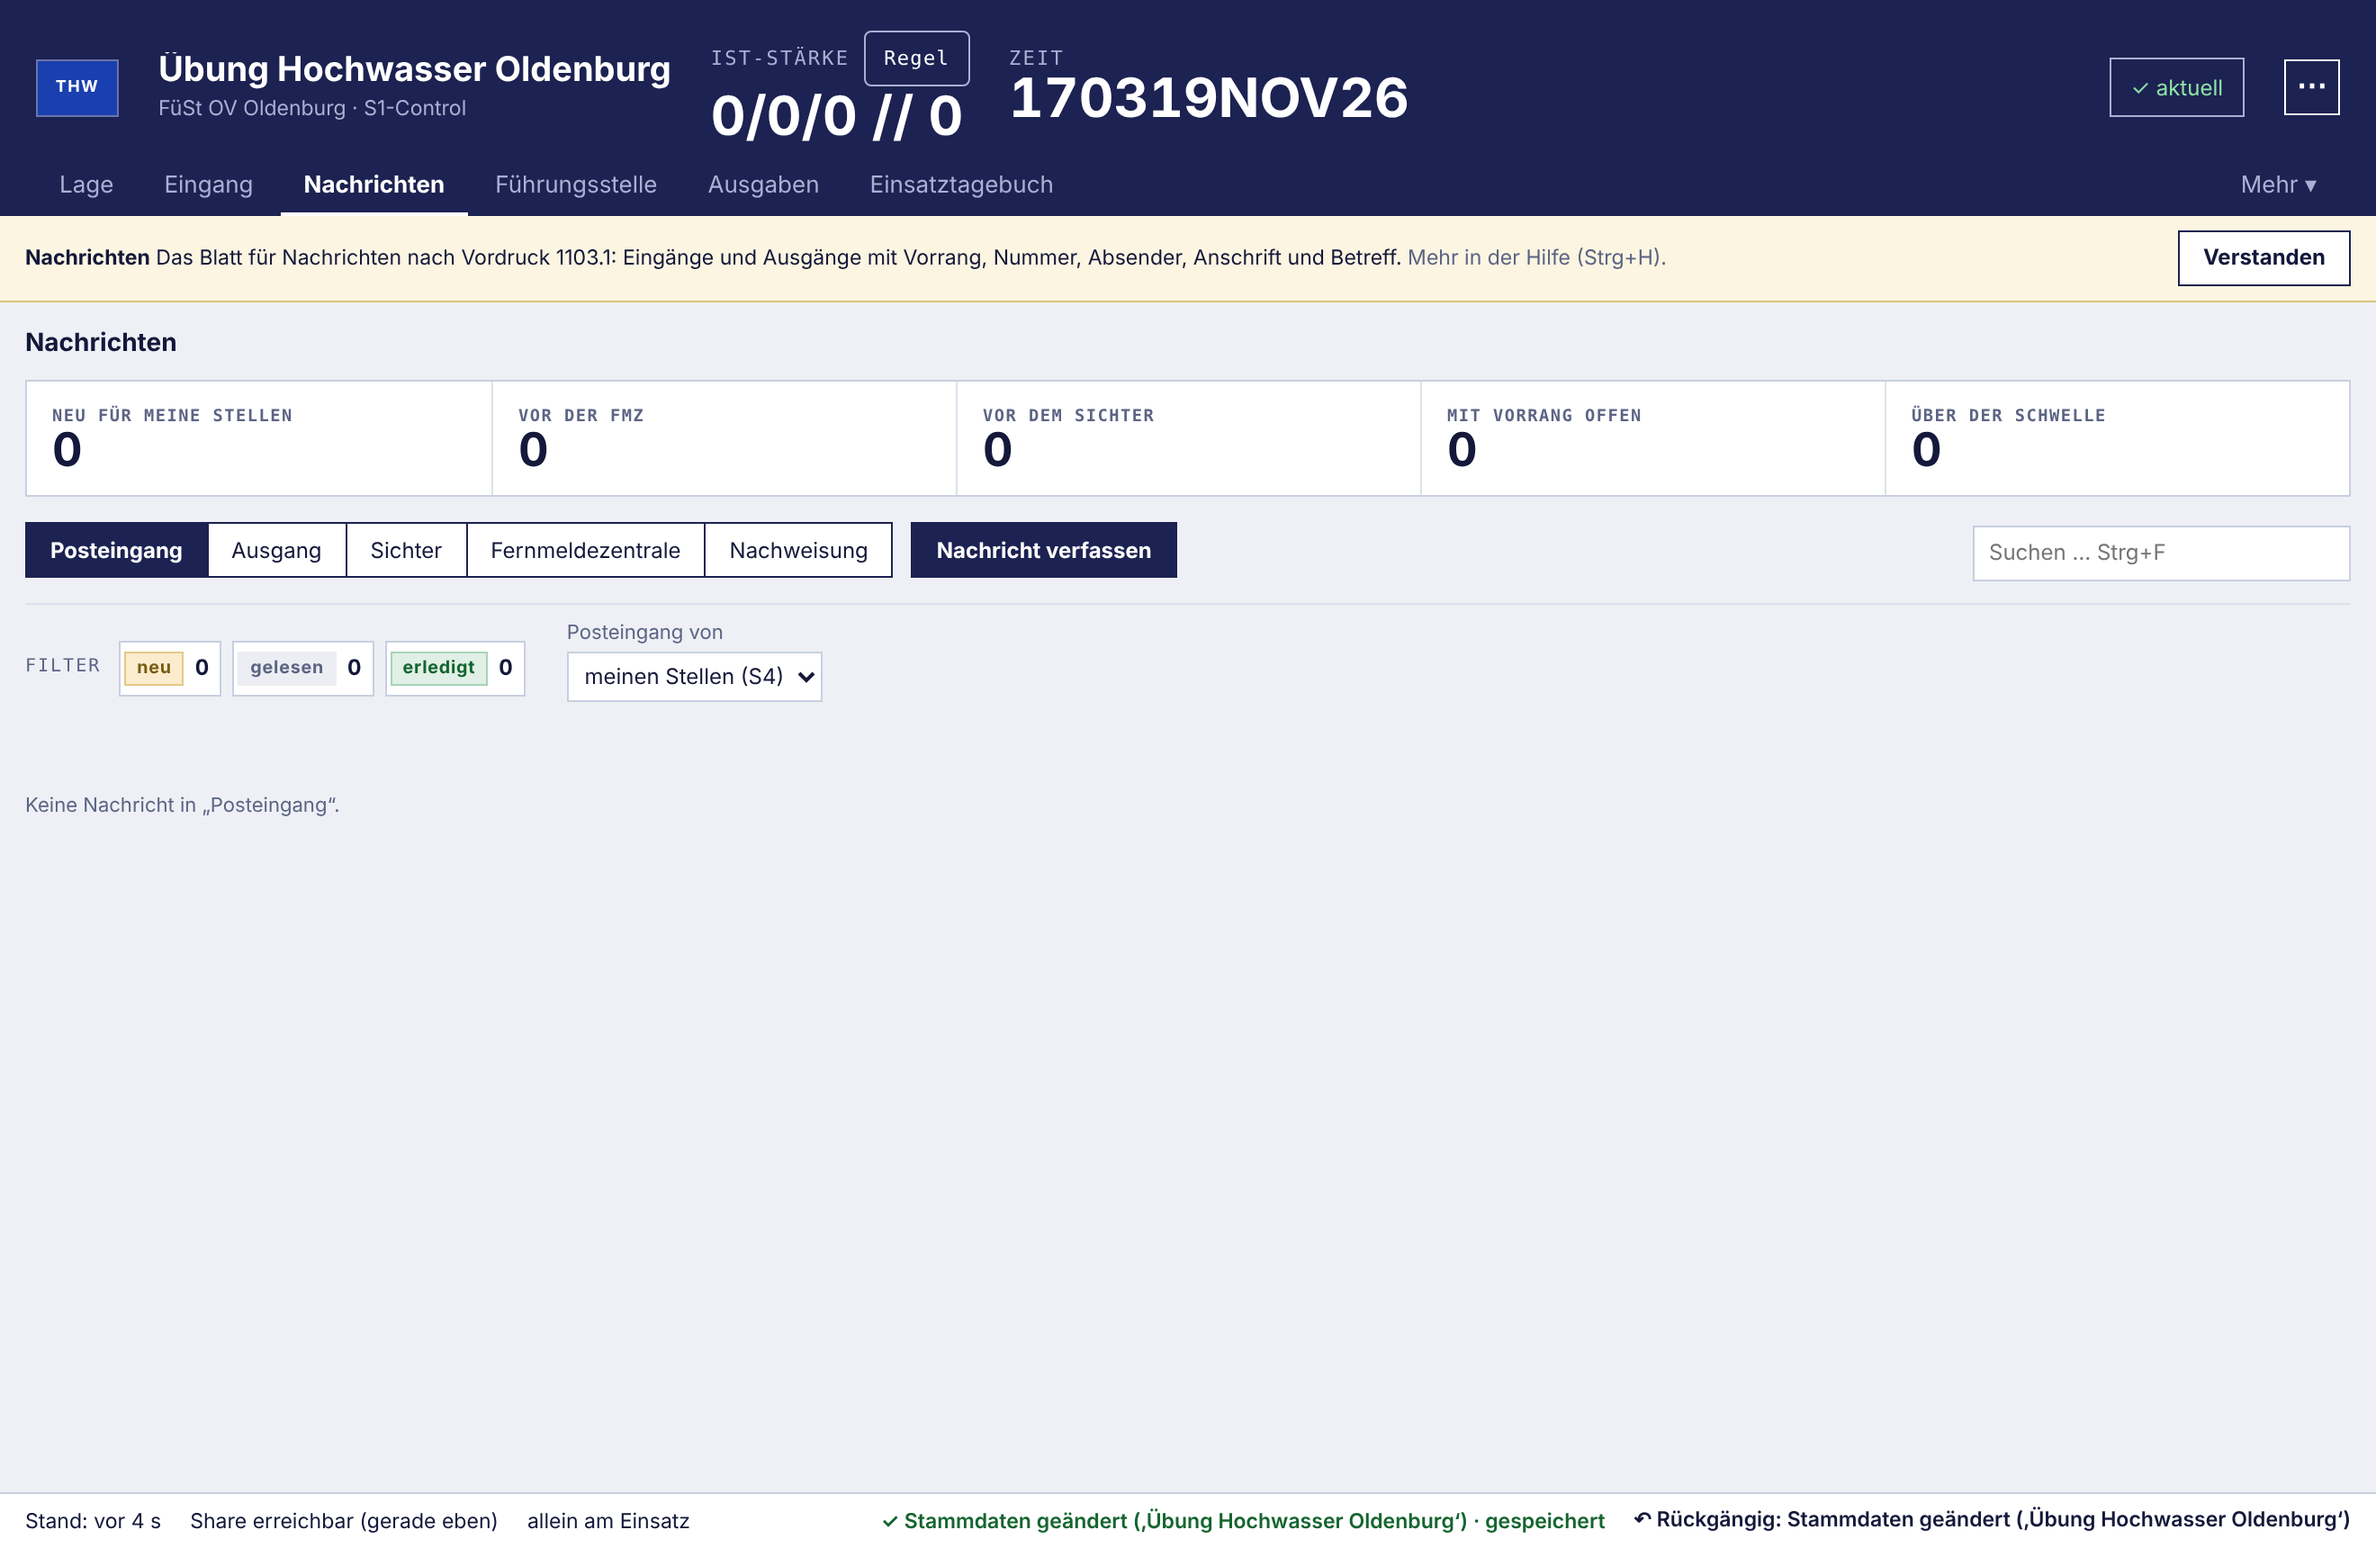
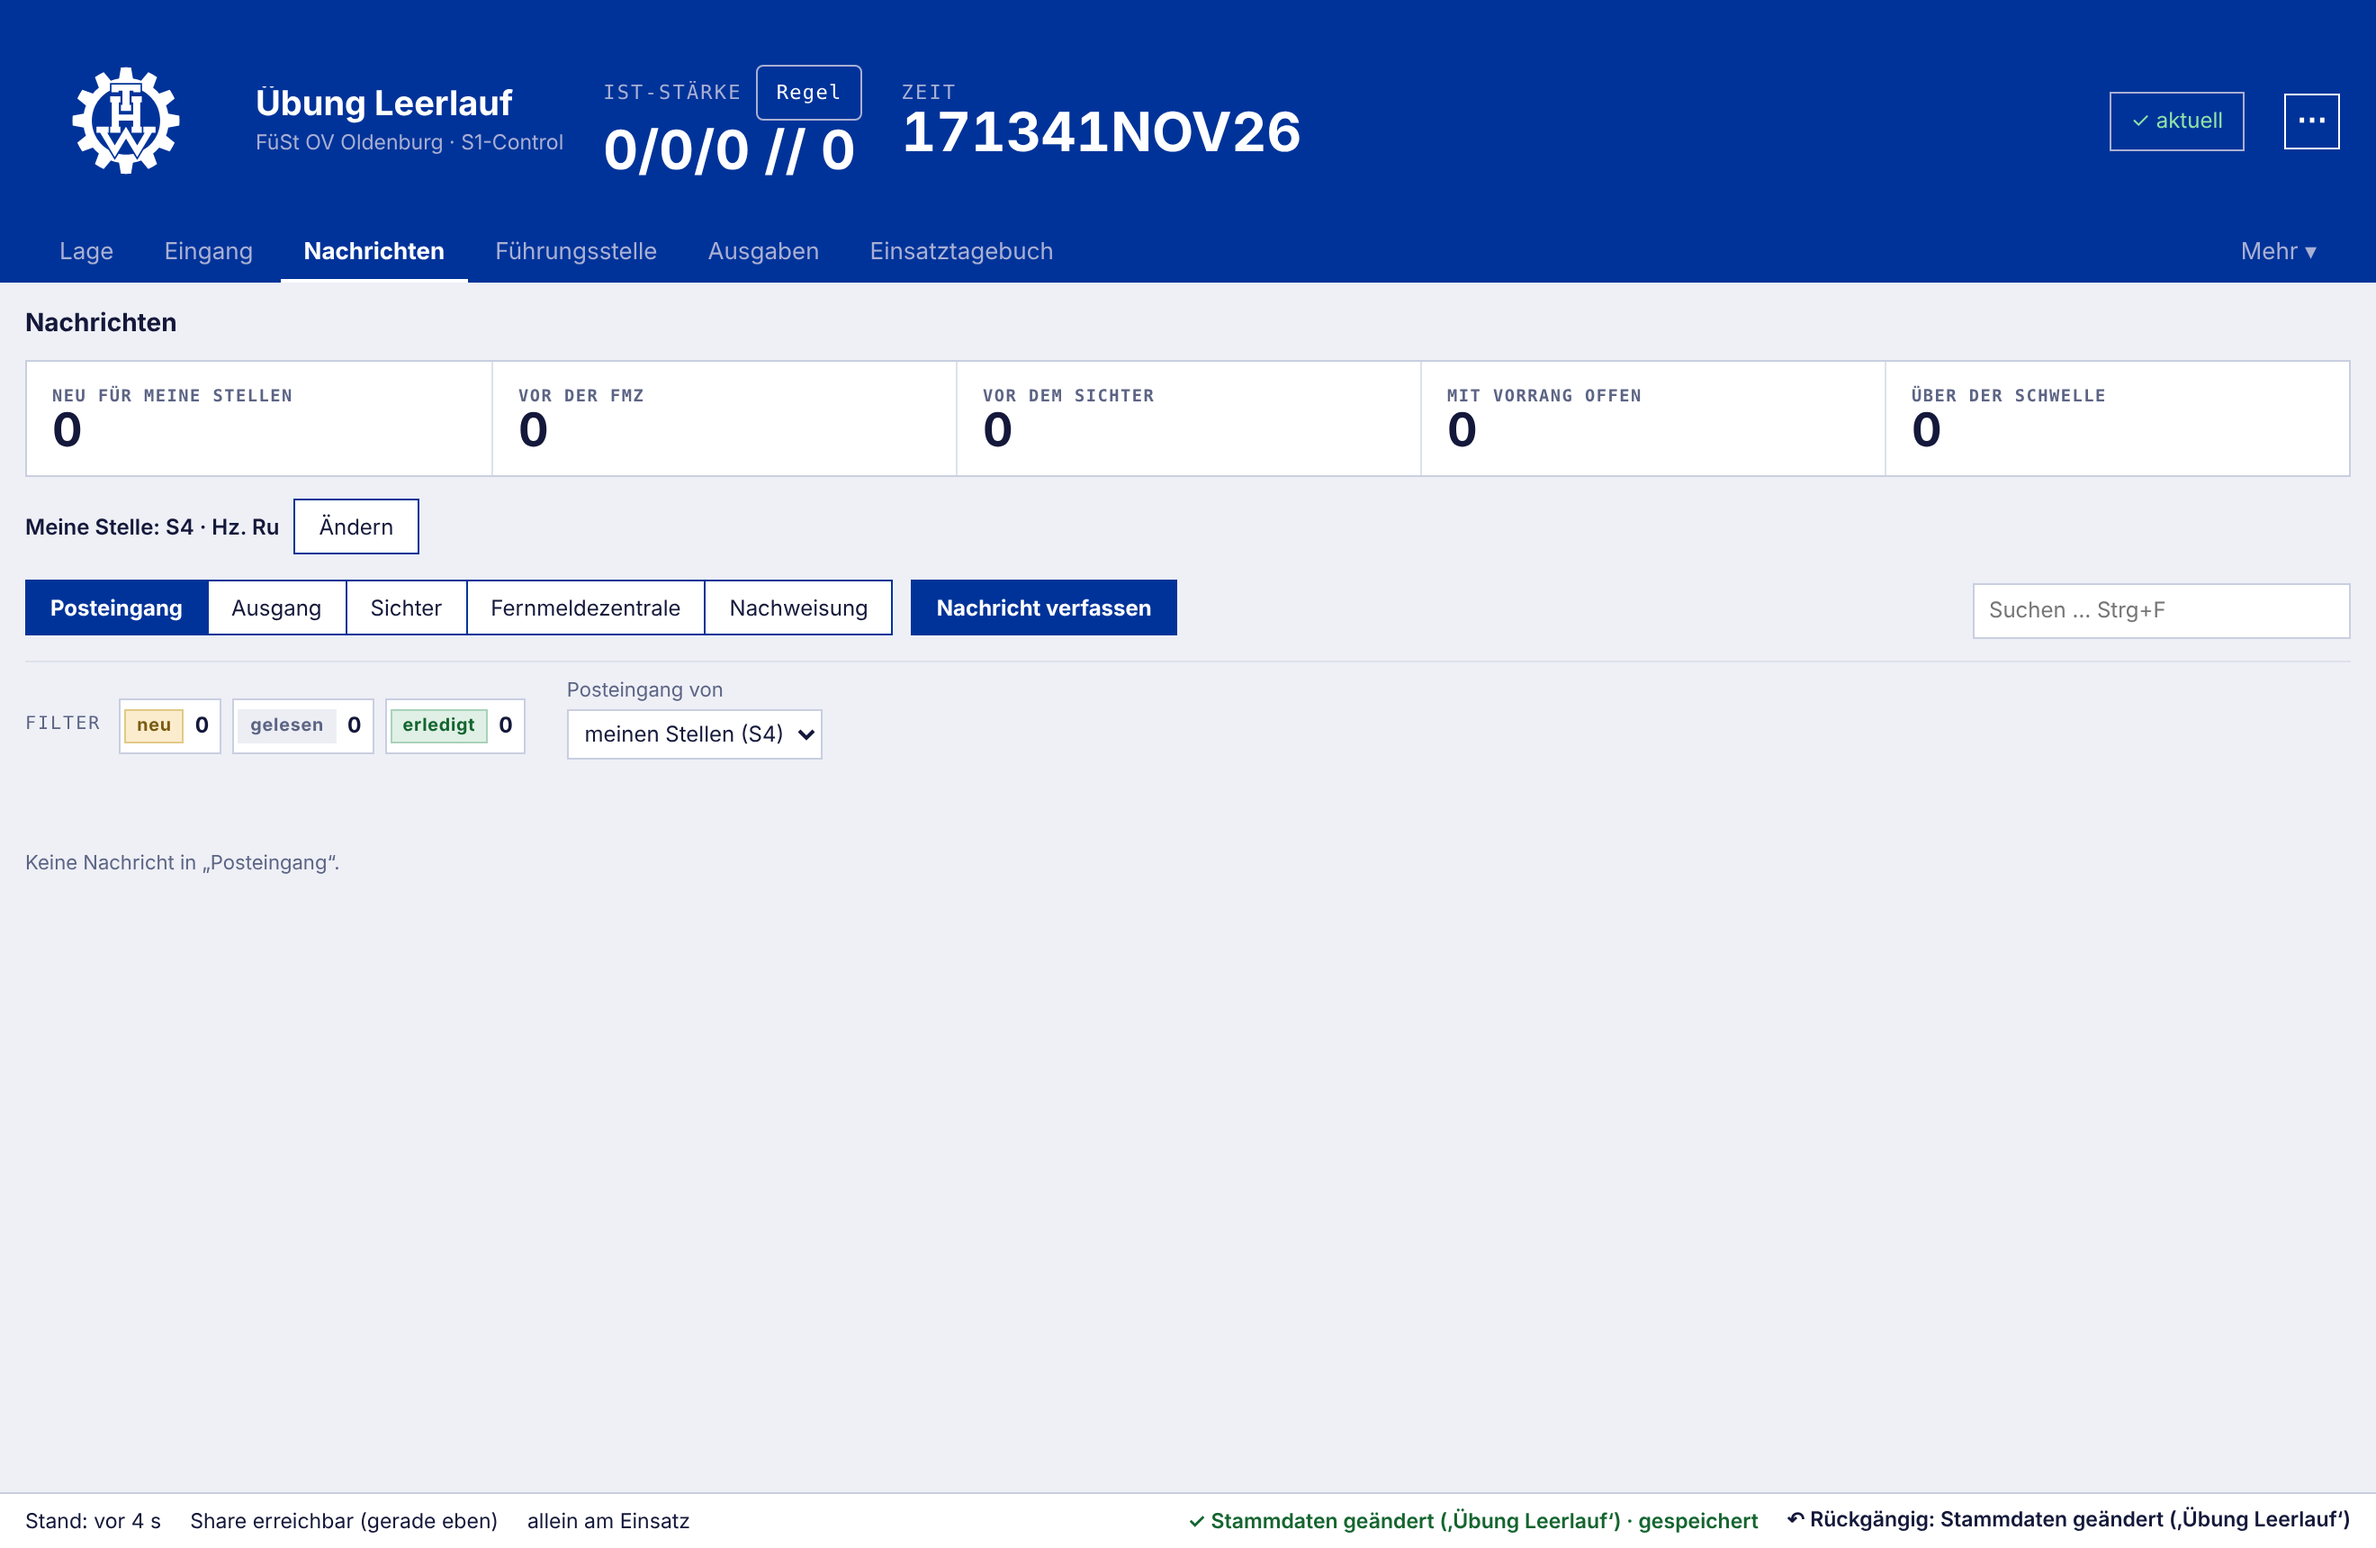
docs(nachrichten): Aufnahmen des zweiten Durchlaufs (Stand be6f9b9) mit LdF, Befördern und Sichter
Claude-Session: https://claude.ai/code/session_01ECm9xQPaCEUFvyqPa12JN4

diff --git a/docs/v2/entwurf/nachrichten/stand/README.md b/docs/v2/entwurf/nachrichten/stand/README.md
@@ -1,18 +1,24 @@
 # Nachrichten – Stand der laufenden Anwendung
 
 Aufgenommen am 17.11.2026 in der Web-Schale (`node apps/desktop/out/web.mjs`, Chromium über Playwright),
-Fassung `485a34c`, Viewport 1320 × 860, deviceScaleFactor 2 (2640 × 1720 Pixel).
-Durchlauf: Einsatz „Übung Hochwasser Oldenburg“, Stelle S4 (Hz. Ru), dann FmZ (Hz. Fm), zurück auf S4.
+Fassung `be6f9b9`, Viewport 1320 × 860, deviceScaleFactor 2 (2640 × 1720 Pixel).
+Durchlauf: Einsatz „Übung Hochwasser Oldenburg“ mit Parameter „LdF als eigene Station“ und Schwelle der FmZ 1 Minute,
+fünf Browser-Kontexte als Stellen S4 (Hz. Ru), FmZ (Hz. Ha), LdF (Hz. Sch), Sichter (Hz. Si) und S2 (Hz. Mü), dazu für die
+Doppelsichtung ein zweiter Sichter (Hz. Zw). Das Bild posteingang-leer stammt aus einem zweiten, leeren Einsatz („Übung Leerlauf“),
+weil der Einsatz des Durchlaufs beim Aufnehmen schon Nachrichten trug.
 
 | Bild | zeigt |
 |---|---|
-| posteingang-leer.png | Reiter Nachrichten, Sicht Posteingang ohne Nachricht, Zähler alle 0 |
-| maske.png | „Nachricht verfassen“ (Vordruck 4-fach) mit Anschrift, Betreff, drei Zeilen Inhalt, Vorschau aufgeklappt |
-| ausgang.png | Sicht Ausgang: die aufgegebene Nachricht, Stand „vor der FmZ“ |
-| fmz.png | Sicht Fernmeldezentrale (Stelle FmZ): Ausgangswarteschlange mit Annehmen/Befördern/Nachweisen, „Eingang aufnehmen“ |
-| nachweisung.png | Sicht Nachweisung: A 1 mit Annahme- und Beförderungsvermerk, Auswahlleiste |
-| eingang-maske.png | „Eingang aufnehmen“ mit Laufzettel (kein Sichter besetzt, S2 rot vorbelegt, S4 grün ergänzt) |
-| posteingang.png | Posteingang S4 mit der neuen Nachricht E 2 (Stand neu) |
-| ansicht.png | Lesen per Doppelklick: Nachricht E 2 mit Laufzettel und Vorschau „Wie gedruckt“ |
+| posteingang-leer.png | Reiter Nachrichten, Sicht Posteingang ohne Nachricht, Zähler alle 0 (eigener leerer Einsatz) |
+| maske.png | „Nachricht verfassen“ (Vordruck 4-fach) mit Übermittlungswunsch Funk, Anschrift, Betreff, drei Zeilen Inhalt, Vorschau aufgeklappt |
+| ausgang.png | Sicht Ausgang von S4: Stand mit Annahme- und Beförderungsvermerk (Zeit, Handzeichen, Mittel), Nr. „folgt (FmZ)“ bei der unnummerierten Nachricht, Kopie grün |
+| fmz.png | Sicht Fernmeldezentrale: Warteschlange mit Spalten Wartet, Vorschlag LdF, Annahme; Karte „Ohne Nummer“ mit Knopf Nachweisen; „Eingang aufnehmen“ |
+| ldf.png | Sicht LdF: Karte „Ausgänge vor dem Vorschlag“ (Übermittlung vorschlagen) und „Eingänge vor der Weitergabe“ (An den Sichter weitergeben) |
+| befoerdern.png | Maske „Befördern“: Quittung der Gegenstelle, Handzeichen, Mittel, Gegenstelle, Hinweis „Annahme wird mit eingetragen“, Warnung „Ohne Nachweisungsnummer“ und Nummernfeld (vorbelegt) |
+| nachweisung.png | Sicht Nachweisung: Mittel, Gegenstelle, Aufnahme, Annahme, Beförderung (Weg), Sichtung; Nr. 7 doppelt vergeben und auf 9 berichtigt |
+| eingang-maske.png | „Eingang aufnehmen“ ohne LdF und Sichter in der Präsenz: Laufzettel als Raster G/B/R je Stelle, S2 rot vorbelegt, S4 grün angekreuzt |
+| sichter.png | Sicht Sichter: Laufzettel als Raster mit Betreff und Inhalt der Nachricht (aufklappbar), Quittung, Vermerke, Warnung „Kein Hauptempfänger“ |
+| posteingang.png | Posteingang S4: Spalten Kopie und Marken, Vermerk „Kopien nach Beförderung: rot S2, grün S4“, Eingang E 3 (neu) |
+| ansicht.png | Lesen per Doppelklick: Nachricht E 3 mit Laufzettel (S4 gelesen mit Zeit und Handzeichen) und Vorschau „Wie gedruckt“ |
 | druck.png | nach „Als Vordruck drucken“: Meldung „Vordruck (A5) geschrieben“, Öffnen / Herunterladen |
-| tagebuch.png | Reiter Einsatztagebuch mit den Nachrichten-Einträgen |
+| tagebuch.png | Reiter Einsatztagebuch: Nachrichten-Einträge mit Nummer zur Zeit des Ereignisses („A (jetzt A 7)“), Erfasst und Zeit der Meldung, Knopf ✉ „Nachricht öffnen“ je Zeile |
